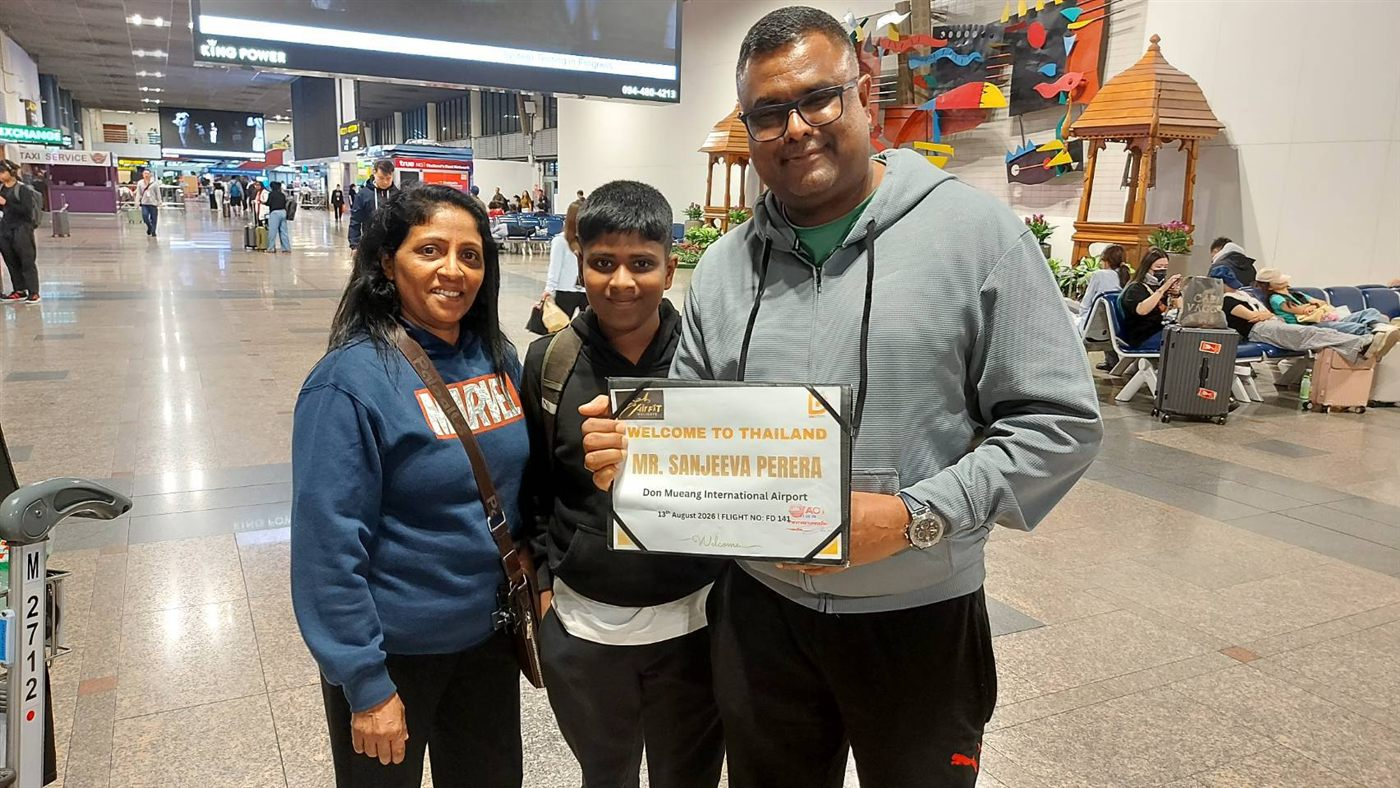
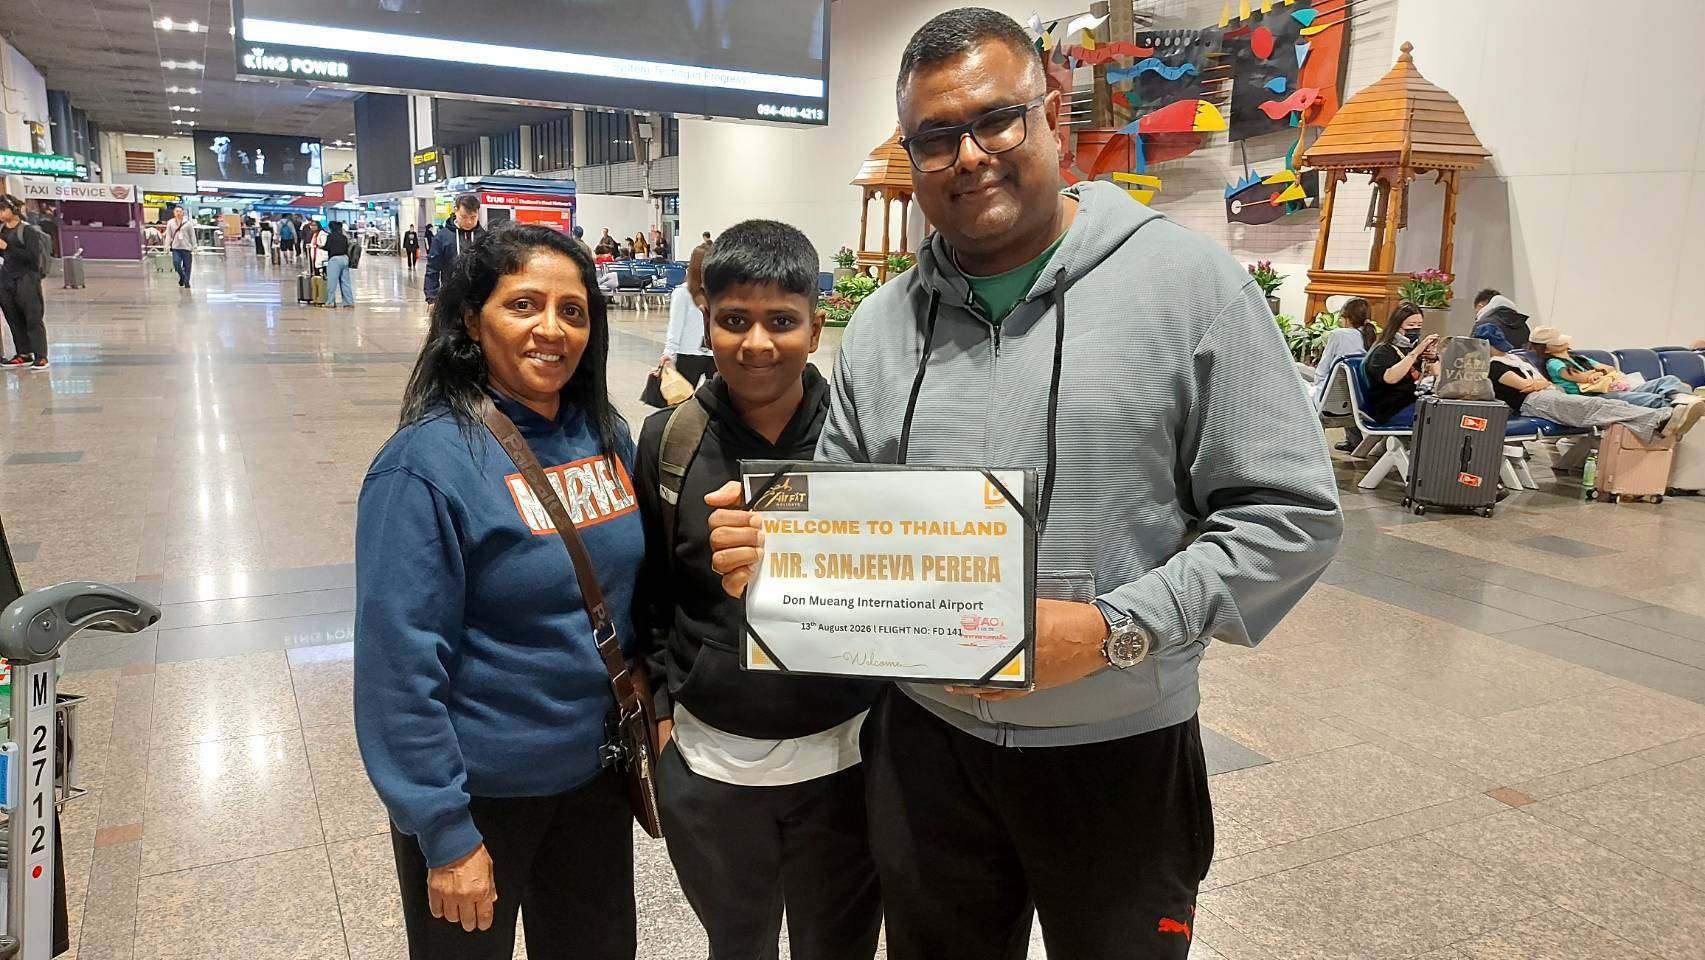
Use guest photos in the homepage Real moments mosaic.
Swap the three mosaic tiles for airport welcome, cooking class, and group dining, and keep partner proof captions in sync.

Changed region(s): [[0.7371, 0.1827, 0.7679, 0.2132], [0.2764, 0.1827, 0.3071, 0.2132]]

diff --git a/content/pages/partners-certifications.html b/content/pages/partners-certifications.html
@@ -269,11 +269,11 @@
           <figcaption>Temple visit · inbound group</figcaption>
         </figure>
         <figure>
-          <img src="{{REL}}images/reviews/cooking-class.jpg" alt="Travelers at a Thai cooking class" width="1400" height="1050" loading="lazy" decoding="async" />
+          <img src="{{REL}}images/reviews/cooking-class.jpg?v=2" alt="Travelers cooking at wok stations in a Thai cooking class" width="1400" height="1050" loading="lazy" decoding="async" />
           <figcaption>Cooking class · group activity</figcaption>
         </figure>
         <figure>
-          <img src="{{REL}}images/reviews/airport-welcome.jpg" alt="Family holding a D&amp;G Holiday welcome sign at Don Mueang Airport" width="1400" height="1860" loading="lazy" decoding="async" />
+          <img src="{{REL}}images/reviews/airport-welcome.jpg?v=2" alt="Family holding a D&amp;G Holiday welcome sign at Don Mueang Airport" width="1400" height="1860" loading="lazy" decoding="async" />
           <figcaption>Airport welcome · Don Mueang</figcaption>
         </figure>
         <figure>
@@ -281,8 +281,8 @@
           <figcaption>Temple steps · cultural visit</figcaption>
         </figure>
         <figure>
-          <img src="{{REL}}images/reviews/hotel-group.jpg" alt="Indian group travelers posing in a hotel lounge" width="1400" height="1860" loading="lazy" decoding="async" />
-          <figcaption>Hotel lounge · India market group</figcaption>
+          <img src="{{REL}}images/reviews/hotel-group.jpg?v=2" alt="Group of travelers dining together at a restaurant" width="1400" height="1050" loading="lazy" decoding="async" />
+          <figcaption>Group dining · restaurant</figcaption>
         </figure>
         <figure>
           <img src="{{REL}}images/reviews/family-temple.jpg" alt="Family posing in a Thai temple courtyard" width="1400" height="1050" loading="lazy" decoding="async" />

diff --git a/about/partners-certifications/index.html b/about/partners-certifications/index.html
@@ -437,11 +437,11 @@
           <figcaption>Temple visit · inbound group</figcaption>
         </figure>
         <figure>
-          <img src="../../images/reviews/cooking-class.jpg" alt="Travelers at a Thai cooking class" width="1400" height="1050" loading="lazy" decoding="async" />
+          <img src="../../images/reviews/cooking-class.jpg?v=2" alt="Travelers cooking at wok stations in a Thai cooking class" width="1400" height="1050" loading="lazy" decoding="async" />
           <figcaption>Cooking class · group activity</figcaption>
         </figure>
         <figure>
-          <img src="../../images/reviews/airport-welcome.jpg" alt="Family holding a D&amp;G Holiday welcome sign at Don Mueang Airport" width="1400" height="1860" loading="lazy" decoding="async" />
+          <img src="../../images/reviews/airport-welcome.jpg?v=2" alt="Family holding a D&amp;G Holiday welcome sign at Don Mueang Airport" width="1400" height="1860" loading="lazy" decoding="async" />
           <figcaption>Airport welcome · Don Mueang</figcaption>
         </figure>
         <figure>
@@ -449,8 +449,8 @@
           <figcaption>Temple steps · cultural visit</figcaption>
         </figure>
         <figure>
-          <img src="../../images/reviews/hotel-group.jpg" alt="Indian group travelers posing in a hotel lounge" width="1400" height="1860" loading="lazy" decoding="async" />
-          <figcaption>Hotel lounge · India market group</figcaption>
+          <img src="../../images/reviews/hotel-group.jpg?v=2" alt="Group of travelers dining together at a restaurant" width="1400" height="1050" loading="lazy" decoding="async" />
+          <figcaption>Group dining · restaurant</figcaption>
         </figure>
         <figure>
           <img src="../../images/reviews/family-temple.jpg" alt="Family posing in a Thai temple courtyard" width="1400" height="1050" loading="lazy" decoding="async" />

diff --git a/index.html b/index.html
@@ -4427,9 +4427,9 @@ document.addEventListener("DOMContentLoaded", function () {
         <a class="dg-gate__more" href="gallery/">Open the gallery <span aria-hidden="true">→</span></a>
       </div>
       <div class="dg-gate-gallery__mosaic" aria-hidden="true">
-        <a href="gallery/tours/"><img src="images/services/group-tourists.jpg" alt="" loading="lazy" decoding="async" width="640" height="480" /></a>
-        <a href="gallery/mice/"><img src="images/services/incentive-celebration.jpg" alt="" loading="lazy" decoding="async" width="480" height="320" /></a>
-        <a href="gallery/weddings/"><img src="images/services/wedding-ceremony.jpg" alt="" loading="lazy" decoding="async" width="480" height="320" /></a>
+        <a href="gallery/tours/"><img src="images/reviews/airport-welcome.jpg?v=2" alt="" loading="lazy" decoding="async" width="640" height="360" /></a>
+        <a href="gallery/mice/"><img src="images/reviews/cooking-class.jpg?v=2" alt="" loading="lazy" decoding="async" width="480" height="360" /></a>
+        <a href="gallery/weddings/"><img src="images/reviews/hotel-group.jpg?v=2" alt="" loading="lazy" decoding="async" width="480" height="270" /></a>
       </div>
     </div>
   </div>
